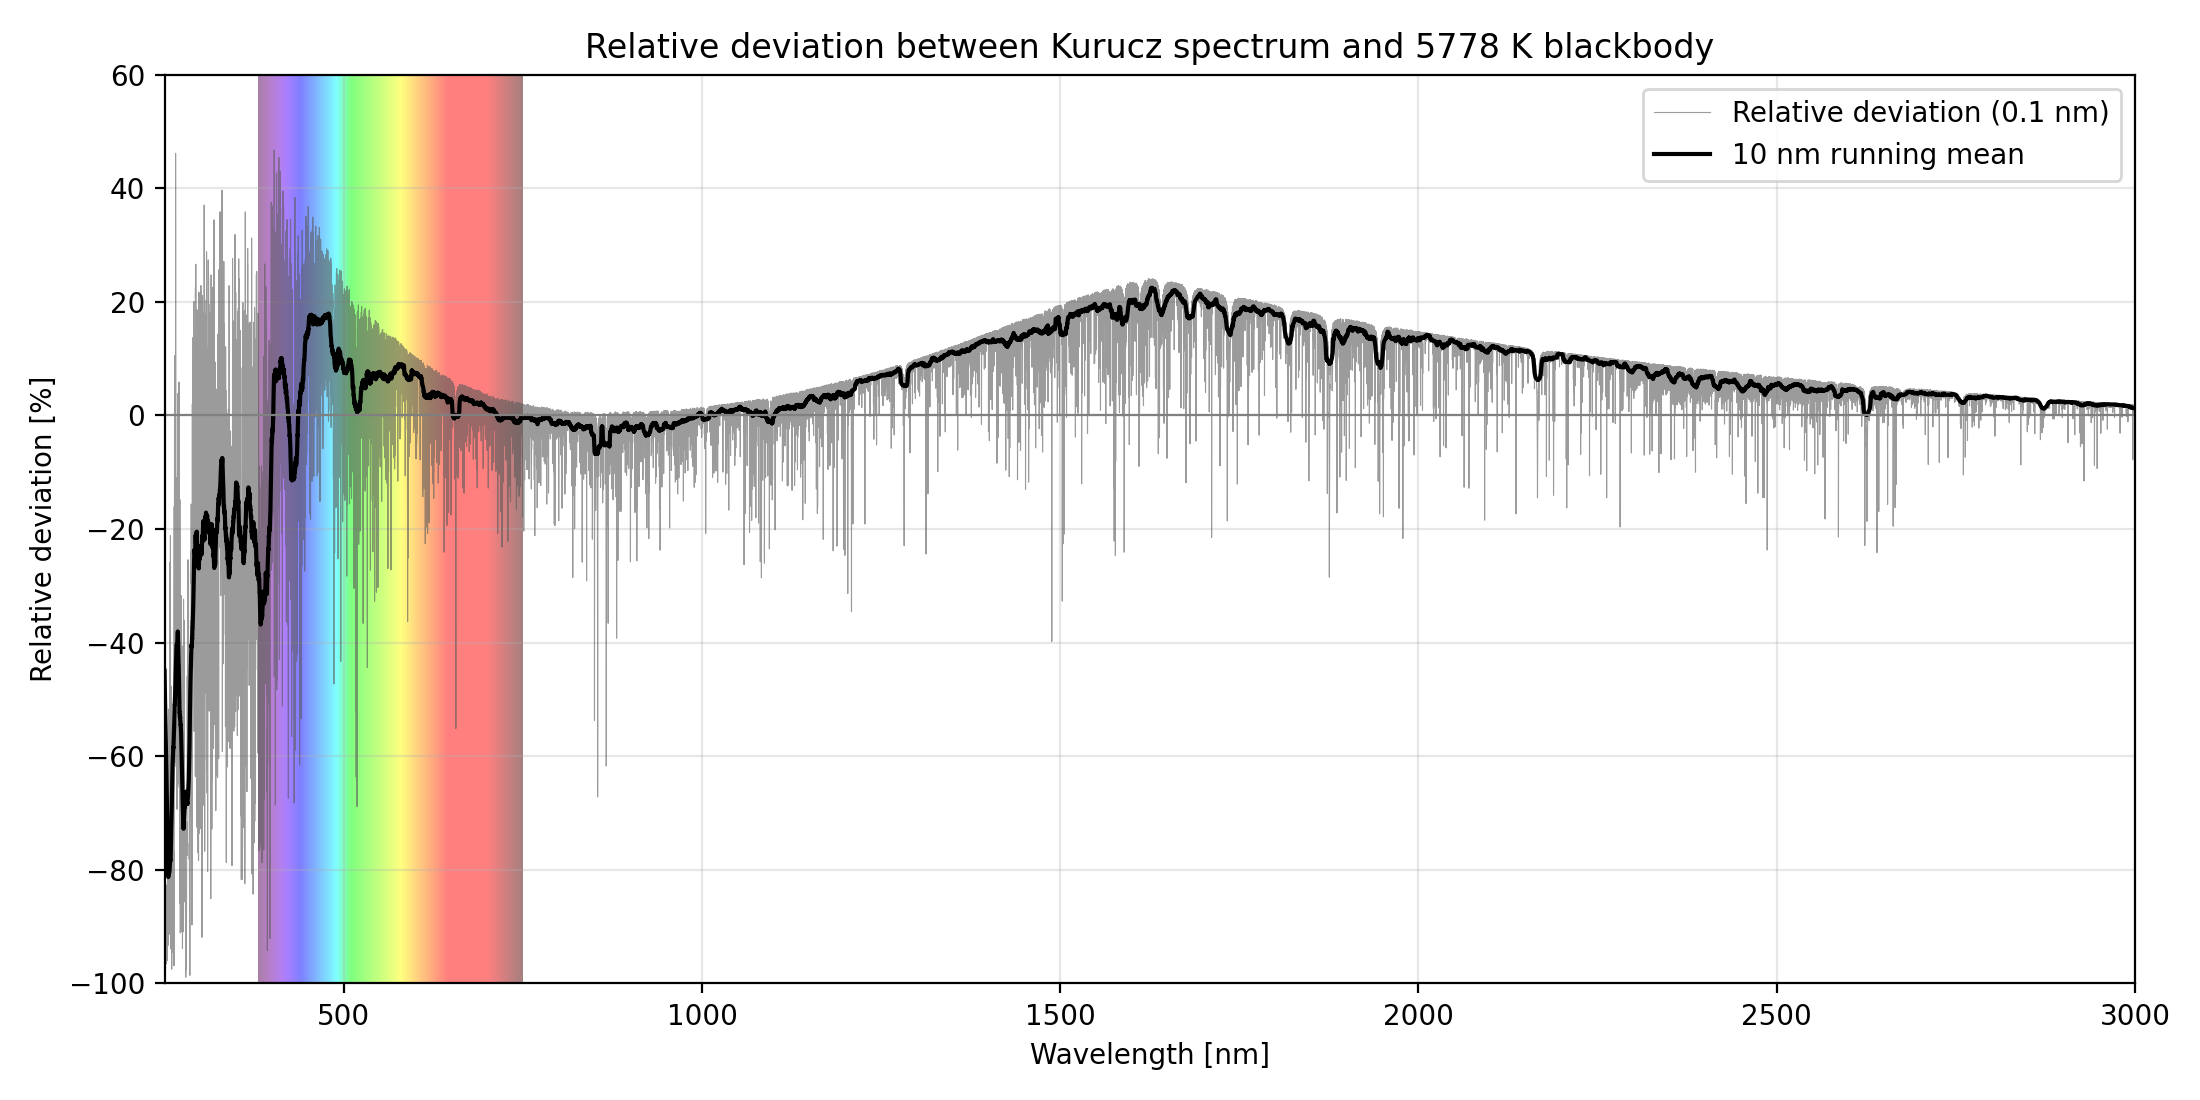
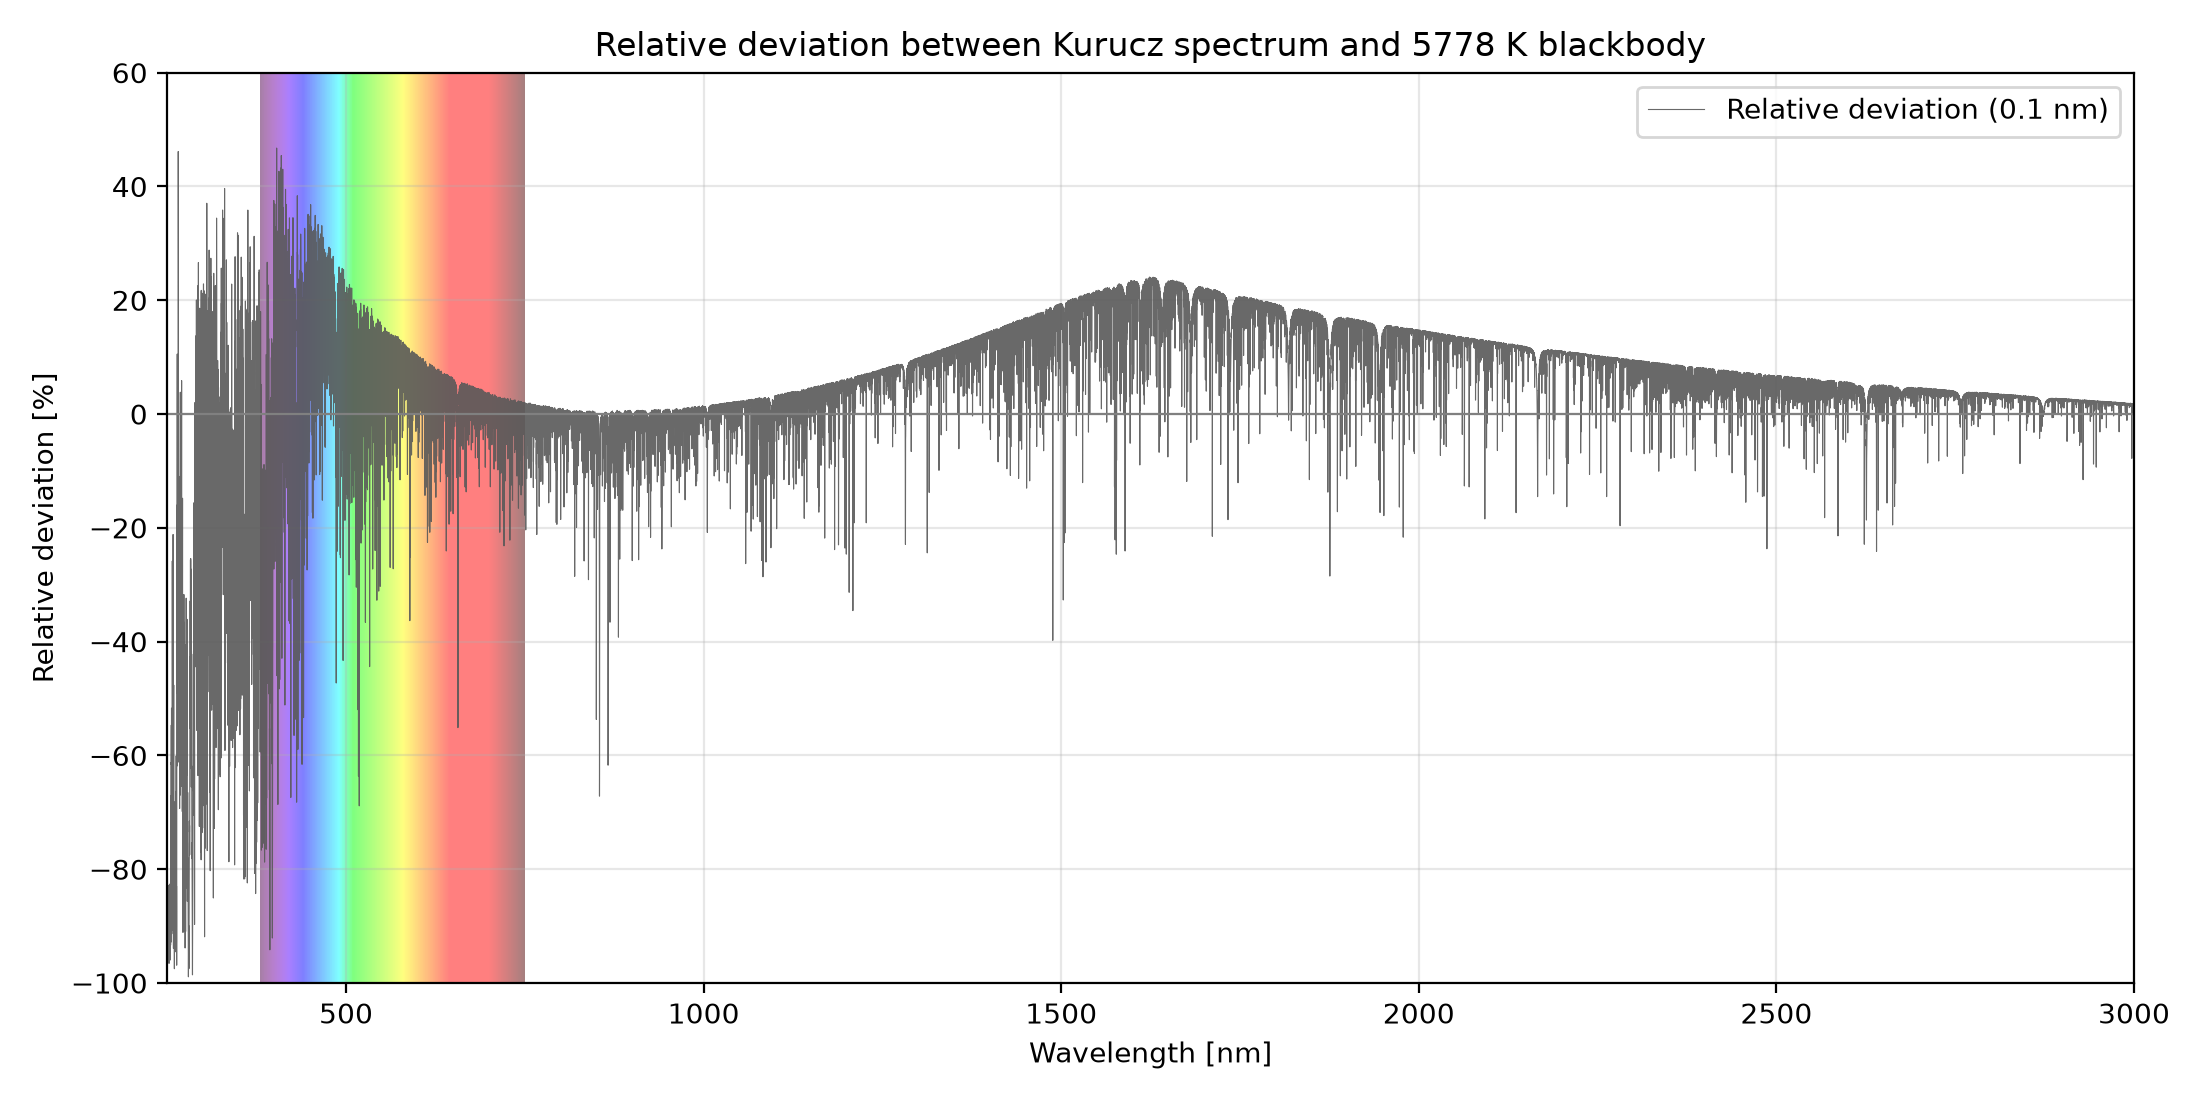
Add files via upload

diff --git a/Mini-Lab3/part1/part1_solar_spectrum.py b/Mini-Lab3/part1/part1_solar_spectrum.py
@@ -123,10 +123,10 @@ rel_deviation_smooth = np.convolve(rel_deviation, kernel, mode="same")
 
 fig3, ax3 = plt.subplots(figsize=(11, 5.5))
 add_visible_spectrum(ax3)
-ax3.plot(wavelength_nm, rel_deviation, lw=0.4, color=KURUCZ_COLOR, alpha=0.6,
+ax3.plot(wavelength_nm, rel_deviation, lw=0.4, color=KURUCZ_COLOR, alpha=0.9,
          label="Relative deviation (0.1 nm)")
-ax3.plot(wavelength_nm, rel_deviation_smooth, lw=1.5, color="k",
-         label="10 nm running mean")
+#ax3.plot(wavelength_nm, rel_deviation_smooth, lw=1.5, color="k",
+#         label="10 nm running mean")
 ax3.axhline(0, color="grey", lw=0.8)
 ax3.set_ylim(-100, 60)
 ax3.set_xlim(250, 3000)
